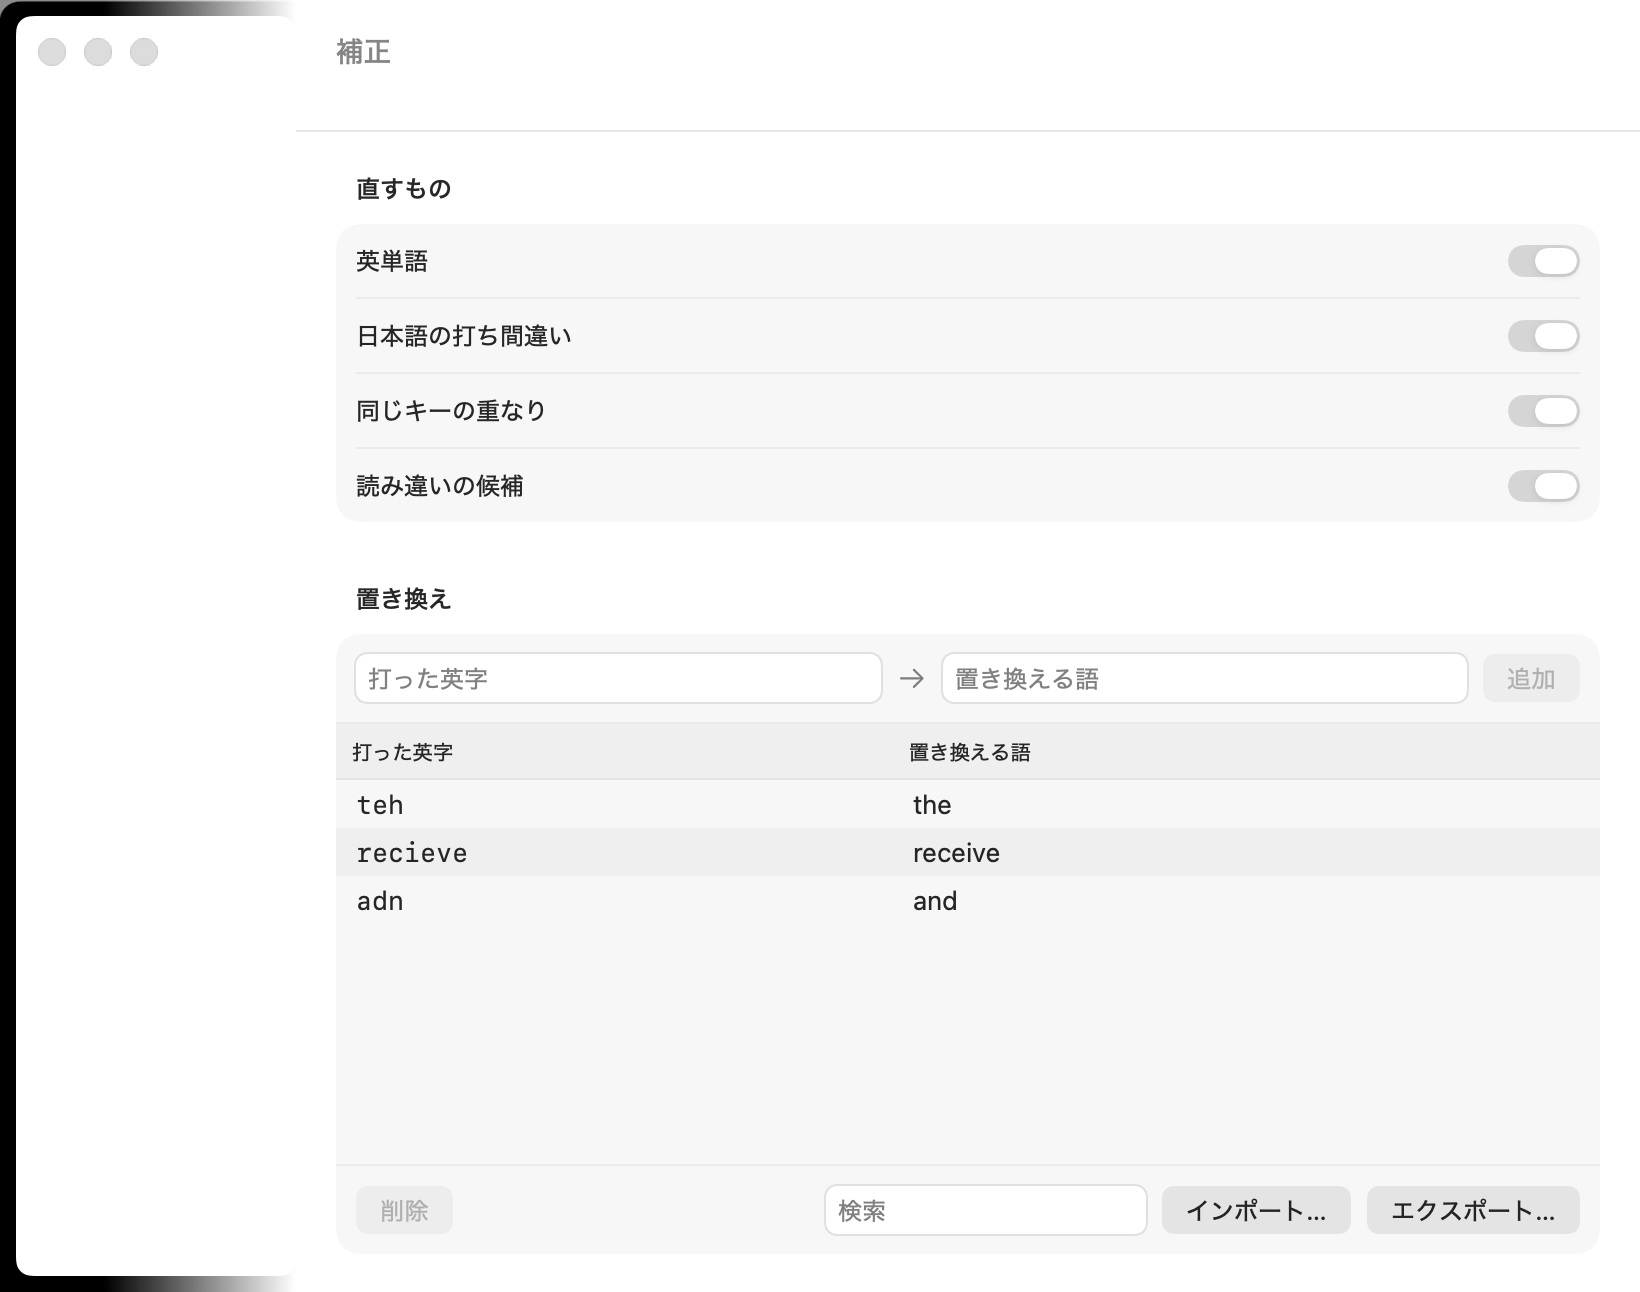
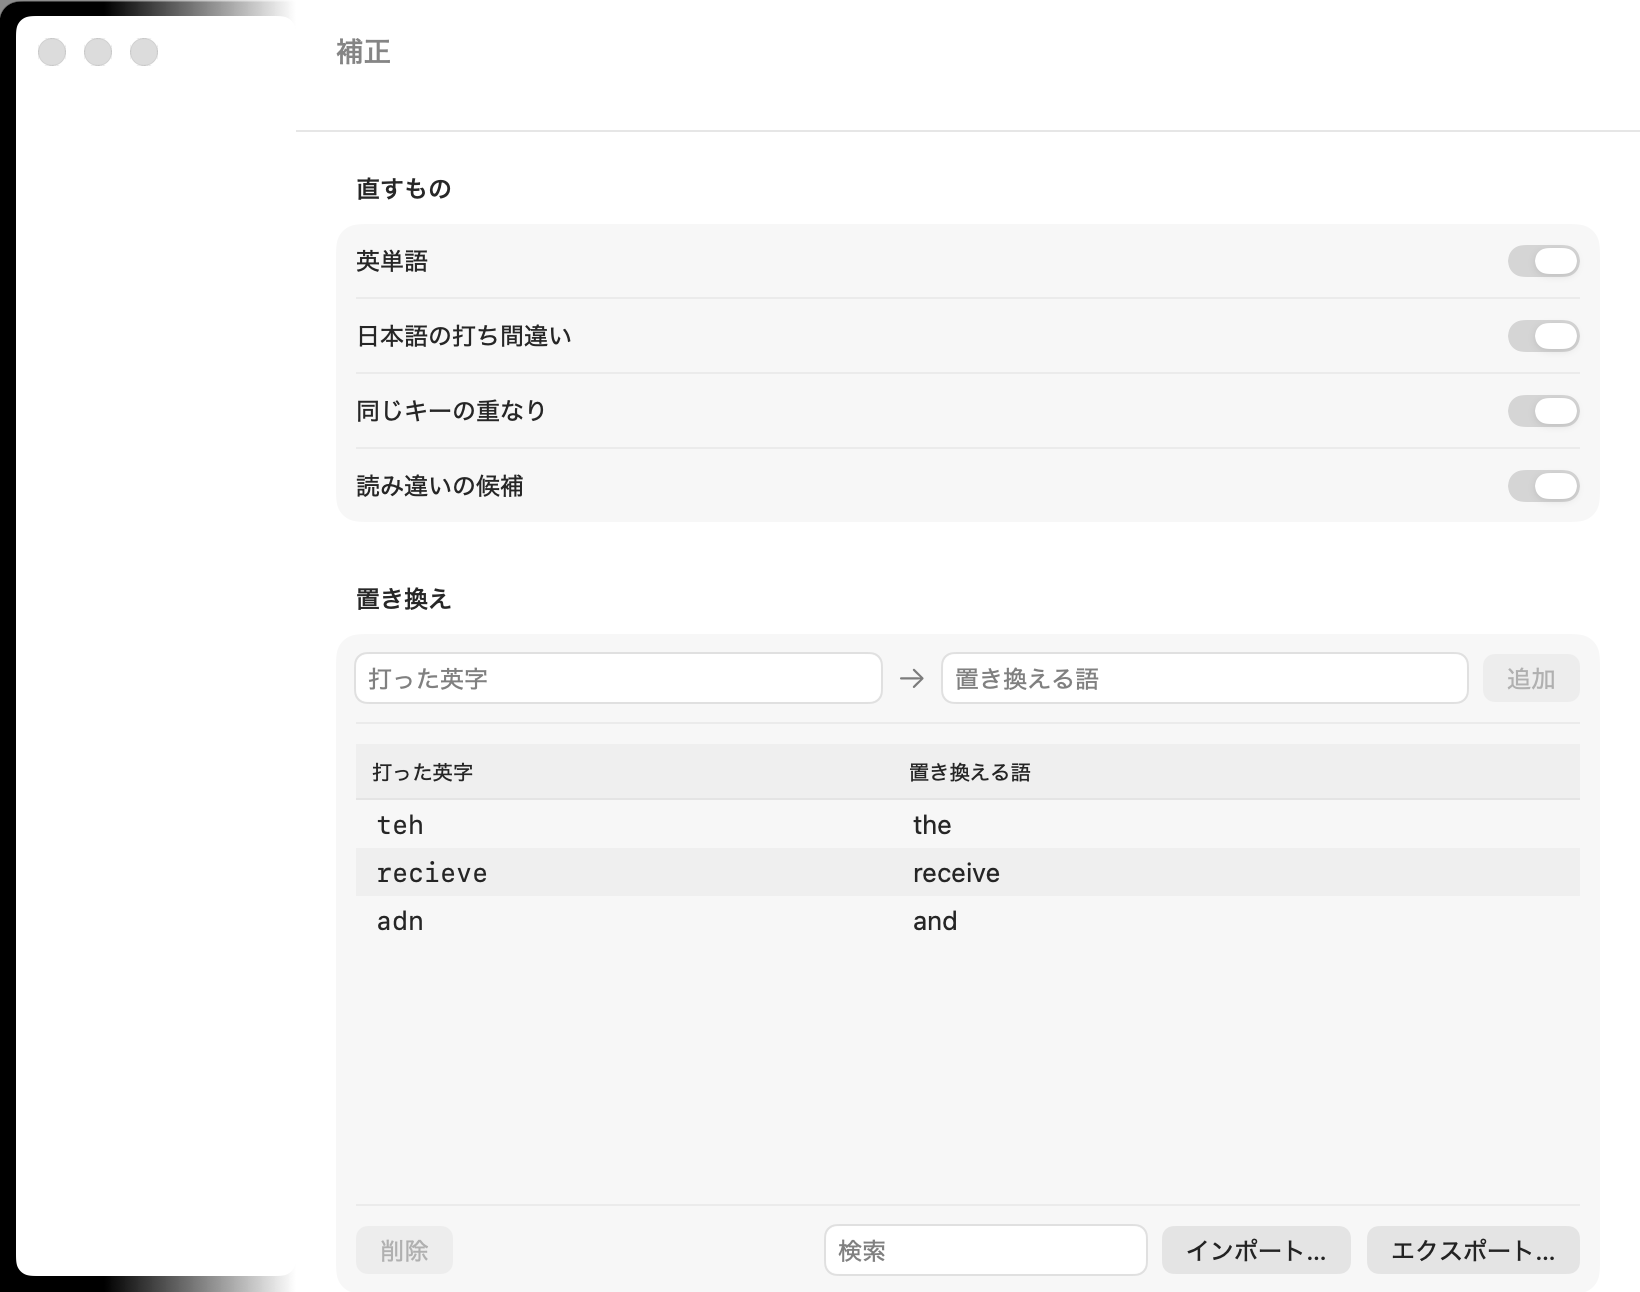
fix(macos): 設定の一覧が空のときの表示を小さな 1 行にし，Form の中の表をスクロールできるようにする (#79)

diff --git a/apps/macos/S90IME/Settings/FormTable.swift b/apps/macos/S90IME/Settings/FormTable.swift
@@ -1,0 +1,97 @@
+import AppKit
+import SwiftUI
+
+/// Form(.grouped)の中に置く表を，表の中でスクロールできるようにする．
+///
+/// Form は中に置いた表(Table)を行に埋め込むものとして扱い，表の縦のスクロールを止める(スクロールバーを出さず，ホイールでも動かない)．
+/// 高さを決めた表では，はみ出した行が見えなくなる．scrollDisabled(false)・isScrollEnabled・別の NSHostingView に入れる，
+/// のどれでも戻らない(macOS 26 で確かめた)．表は止められたホイールの動きを外(レスポンダチェーン)へ渡すので，
+/// 表を AppKit の入れ物(DetachedContainer)に入れてその動きを受け，表の中を動かす．
+/// 表は入れ物の中の NSHostingView で描く．中身は更新のたびに入れ替えるので，状態とバインディングはそのまま効く
+struct FormTableHost<Content: View>: NSViewRepresentable {
+    private let content: Content
+
+    init(@ViewBuilder content: () -> Content) {
+        self.content = content()
+    }
+
+    func makeNSView(context: Context) -> DetachedContainer {
+        let hosting = NSHostingView(rootView: content)
+        // 大きさは外(Form の行の frame)で決める
+        hosting.sizingOptions = []
+        return DetachedContainer(hosting: hosting)
+    }
+
+    func updateNSView(_ view: DetachedContainer, context: Context) {
+        view.hosting.rootView = content
+    }
+
+    /// 表を入れる入れ物．表が渡してきたホイールの動きで，表の中をスクロールする
+    final class DetachedContainer: NSView, FormTableContainer {
+        let hosting: NSHostingView<Content>
+
+        init(hosting: NSHostingView<Content>) {
+            self.hosting = hosting
+            super.init(frame: .zero)
+            hosting.frame = bounds
+            hosting.autoresizingMask = [.width, .height]
+            addSubview(hosting)
+        }
+
+        @available(*, unavailable)
+        required init?(coder: NSCoder) { nil }
+
+        /// 中の表のスクロールビュー(表の行を並べる NSTableView を持つもの)
+        private var tableScrollView: NSScrollView? {
+            var stack: [NSView] = [hosting]
+            while let view = stack.popLast() {
+                if let scroll = view as? NSScrollView, scroll.documentView is NSTableView { return scroll }
+                stack.append(contentsOf: view.subviews)
+            }
+            return nil
+        }
+
+        override func layout() {
+            super.layout()
+            // Form が消したスクロールバーを出す(行がはみ出していることが見て分かるように)
+            if let scroll = tableScrollView, !scroll.hasVerticalScroller {
+                scroll.hasVerticalScroller = true
+                scroll.autohidesScrollers = true
+            }
+        }
+
+        /// 表はスクロールを止められているので，ホイールの動きを受け取って表の中を動かす．
+        /// 表の端まで動かしたあとの動きは外(ページ)へ渡し，ページもスクロールできるようにする
+        override func scrollWheel(with event: NSEvent) {
+            guard let scroll = tableScrollView, let document = scroll.documentView else { return super.scrollWheel(with: event) }
+            let clip = scroll.contentView
+            let top = -scroll.contentInsets.top
+            let bottom = max(top, document.frame.height - clip.bounds.height)
+            let delta = event.hasPreciseScrollingDeltas ? event.scrollingDeltaY : event.scrollingDeltaY * scroll.verticalLineScroll
+            let current = clip.bounds.origin.y
+            let target = min(max(current - delta, top), bottom)
+            guard target != current else { return super.scrollWheel(with: event) }
+            clip.scroll(to: NSPoint(x: clip.bounds.origin.x, y: target))
+            scroll.reflectScrolledClipView(clip)
+        }
+    }
+}
+
+/// FormTableHost の入れ物の目印(見本の画像に写すときに探す)
+protocol FormTableContainer: NSView {}
+
+/// 表が空のとき(検索に合う行が無いときも)に表の中に出す 1 行．システム設定の空の一覧と同じく，薄い小さな字だけにする
+struct EmptyListLabel: View {
+    let text: String
+
+    var body: some View {
+        Text(text)
+            .font(.callout)
+            .foregroundStyle(.secondary)
+            .lineLimit(1)
+            .padding()
+            .frame(maxWidth: .infinity, maxHeight: .infinity)
+            // 表を選んだり右クリックしたりするのを妨げない
+            .allowsHitTesting(false)
+    }
+}

diff --git a/apps/macos/S90IME/App/SnapshotRenderer.swift b/apps/macos/S90IME/App/SnapshotRenderer.swift
@@ -244,8 +244,65 @@ enum SnapshotRenderer {
         rep.size = size
         (appearance ?? NSAppearance(named: .aqua)!).performAsCurrentDrawingAppearance {
             view.cacheDisplay(in: view.bounds, to: rep)
+            drawNestedTables(of: view, into: rep)
         }
         try? rep.representation(using: .png, properties: [:])?.write(to: directory.appendingPathComponent("\(name).png"))
+    }
+
+    /// Form の中の表(FormTableHost)は別の NSHostingView で描くので，外のビューの cacheDisplay では写らない(白く抜ける)．
+    /// 表のすぐ左(Form の行の地)の色で塗り，表の入れ物と見えている行を 1 つずつ写して乗算で重ねる．
+    /// cacheDisplay は透明なところを白で埋めるので，乗算で白を地の色に戻す．
+    /// ダークの外観では白い文字が乗算で消えるので，表の中は写らない(地の色だけになる)
+    static func drawNestedTables(of root: NSView, into rep: NSBitmapImageRep) {
+        guard let context = NSGraphicsContext(bitmapImageRep: rep) else { return }
+        let scale = CGFloat(rep.pixelsWide) / root.bounds.width
+        // rep は左下が原点
+        let flip = { (rect: NSRect) -> NSRect in
+            var rect = rect
+            if root.isFlipped { rect.origin.y = root.bounds.height - rect.maxY }
+            return rect
+        }
+        var stack = root.subviews
+        while let view = stack.popLast() {
+            guard !view.isHiddenOrHasHiddenAncestor else { continue }
+            guard view is FormTableContainer else {
+                stack.append(contentsOf: view.subviews)
+                continue
+            }
+            let frame = view.convert(view.bounds, to: root)
+            // colorAt は左上が原点
+            let fromTop = root.isFlipped ? frame.midY : root.bounds.height - frame.midY
+            guard let ground = rep.colorAt(x: Int((frame.minX - 4) * scale), y: Int(fromTop * scale)) else { continue }
+            NSGraphicsContext.saveGraphicsState()
+            NSGraphicsContext.current = context
+            ground.setFill()
+            flip(frame).fill()
+            NSGraphicsContext.restoreGraphicsState()
+            draw(view, at: flip(frame), into: context, clip: nil)
+            var rows = view.subviews
+            while let row = rows.popLast() {
+                guard row is NSTableRowView, let scroll = row.enclosingScrollView else {
+                    rows.append(contentsOf: row.subviews)
+                    continue
+                }
+                // 見出しの下(contentInsets.top より下)の，行が見えている範囲で切る
+                let clip = scroll.contentView
+                var visible = clip.bounds
+                visible.size.height -= scroll.contentInsets.top
+                if clip.isFlipped { visible.origin.y += scroll.contentInsets.top }
+                draw(row, at: flip(row.convert(row.bounds, to: root)), into: context, clip: flip(clip.convert(visible, to: root)))
+            }
+        }
+    }
+
+    private static func draw(_ view: NSView, at rect: NSRect, into context: NSGraphicsContext, clip: NSRect?) {
+        guard let image = view.bitmapImageRepForCachingDisplay(in: view.bounds) else { return }
+        view.cacheDisplay(in: view.bounds, to: image)
+        NSGraphicsContext.saveGraphicsState()
+        NSGraphicsContext.current = context
+        if let clip { NSBezierPath(rect: clip).setClip() }
+        image.draw(in: rect, from: .zero, operation: .multiply, fraction: 1, respectFlipped: false, hints: nil)
+        NSGraphicsContext.restoreGraphicsState()
     }
 }
 #endif

diff --git a/apps/macos/S90IME/Settings/ExclusionsPage.swift b/apps/macos/S90IME/Settings/ExclusionsPage.swift
@@ -11,30 +11,33 @@ struct ExclusionsPage: View {
     var body: some View {
         Form {
             Section {
-                Table(model.settings.profileRules, selection: $selection) {
-                    TableColumn(UIStrings.More.apps) { rule in
-                        Text(rule.applicationPrefix).lineLimit(1).truncationMode(.middle)
-                    }
-                    TableColumn(UIStrings.More.behavior) { rule in
-                        Picker("", selection: Binding(get: { rule.profile }, set: { change(rule, to: $0) })) {
-                            ForEach(Self.profiles, id: \.self) { Text(UIStrings.Settings.label(for: $0)).tag($0) }
+                // Form の中でも表の中でスクロールできるよう，FormTableHost に入れる
+                FormTableHost {
+                    Table(model.settings.profileRules, selection: $selection) {
+                        TableColumn(UIStrings.More.apps) { rule in
+                            Text(rule.applicationPrefix).lineLimit(1).truncationMode(.middle)
                         }
-                        .labelsHidden()
+                        TableColumn(UIStrings.More.behavior) { rule in
+                            Picker("", selection: Binding(get: { rule.profile }, set: { change(rule, to: $0) })) {
+                                ForEach(Self.profiles, id: \.self) { Text(UIStrings.Settings.label(for: $0)).tag($0) }
+                            }
+                            .labelsHidden()
+                        }
+                        .width(min: 150, ideal: 170)
                     }
-                    .width(min: 150, ideal: 170)
-                }
-                .onDeleteCommand(perform: removeSelected)
-                .contextMenu(forSelectionType: ProfileRule.self) { picked in
-                    if !picked.isEmpty {
-                        Button(UIStrings.Settings.remove) {
-                            selection = picked
-                            removeSelected()
+                    .onDeleteCommand(perform: removeSelected)
+                    .contextMenu(forSelectionType: ProfileRule.self) { picked in
+                        if !picked.isEmpty {
+                            Button(UIStrings.Settings.remove) {
+                                selection = picked
+                                removeSelected()
+                            }
                         }
                     }
-                }
-                .overlay {
-                    if model.settings.profileRules.isEmpty {
-                        ContentUnavailableView(UIStrings.More.exclusionsEmpty, systemImage: "app.dashed")
+                    .overlay {
+                        if model.settings.profileRules.isEmpty {
+                            EmptyListLabel(text: UIStrings.More.exclusionsEmpty)
+                        }
                     }
                 }
                 .frame(height: DesignTokens.Size.Settings.ruleTableHeight)

diff --git a/apps/macos/S90IME/Settings/RuleListEditor.swift b/apps/macos/S90IME/Settings/RuleListEditor.swift
@@ -34,7 +34,7 @@ struct RuleListEditor: View {
         var value: String?
         var keyPrompt: String?
         var valuePrompt: String?
-        /// 一覧が空のときの見出しと説明
+        /// 一覧が空のときに表の中に出す文
         var empty: String
     }
 
@@ -195,31 +195,34 @@ struct RuleListEditor: View {
         .width(min: 120, ideal: 240)
     }
 
-    /// 表に共通の操作(ダブルクリックで編集，右クリック，Delete キーで削除，空のときの案内)
+    /// 表に共通の操作(ダブルクリックで編集，右クリック，Delete キーで削除，空のときの案内)．
+    /// Form の中でも表の中でスクロールできるよう，FormTableHost に入れる
     private func decorated(_ table: some View) -> some View {
-        table
-            .contextMenu(forSelectionType: RuleItem.ID.self) { ids in
-                let picked = items.filter { ids.contains($0.id) }
-                if picked.count == 1, let item = picked.first {
-                    Button(UIStrings.RuleList.edit) { edit(item) }
+        FormTableHost {
+            table
+                .contextMenu(forSelectionType: RuleItem.ID.self) { ids in
+                    let picked = items.filter { ids.contains($0.id) }
+                    if picked.count == 1, let item = picked.first {
+                        Button(UIStrings.RuleList.edit) { edit(item) }
+                    }
+                    if !picked.filter({ $0.removal != .none }).isEmpty {
+                        Button(removeTitle(for: picked)) { removeItems(picked) }
+                    }
+                } primaryAction: { ids in
+                    if ids.count == 1, let item = items.first(where: { ids.contains($0.id) }) { edit(item) }
                 }
-                if !picked.filter({ $0.removal != .none }).isEmpty {
-                    Button(removeTitle(for: picked)) { removeItems(picked) }
-                }
-            } primaryAction: { ids in
-                if ids.count == 1, let item = items.first(where: { ids.contains($0.id) }) { edit(item) }
-            }
-            .onDeleteCommand { removeItems(items.filter { selection.contains($0.id) }) }
-            .overlay { emptyState }
-            .frame(height: tableHeight)
+                .onDeleteCommand { removeItems(items.filter { selection.contains($0.id) }) }
+                .overlay { emptyState }
+        }
+        .frame(height: tableHeight)
     }
 
     @ViewBuilder
     private var emptyState: some View {
         if items.isEmpty {
-            ContentUnavailableView(labels.empty, systemImage: "list.bullet.rectangle")
+            EmptyListLabel(text: labels.empty)
         } else if shownItems.isEmpty {
-            ContentUnavailableView.search(text: query)
+            EmptyListLabel(text: UIStrings.RuleList.noMatches)
         }
     }
 

diff --git a/apps/macos/S90IME/UI/UIStrings.swift b/apps/macos/S90IME/UI/UIStrings.swift
@@ -289,6 +289,7 @@ enum UIStrings {
         static func overwrites(_ key: String) -> String { "「\(key)」はもうあります。追加すると上書きします。" }
         static let alreadyRegistered = "もう登録してあります。"
         static let full = "これ以上は追加できません。"
+        static let noMatches = "一致する項目はありません"
     }
 
     enum Settings {
